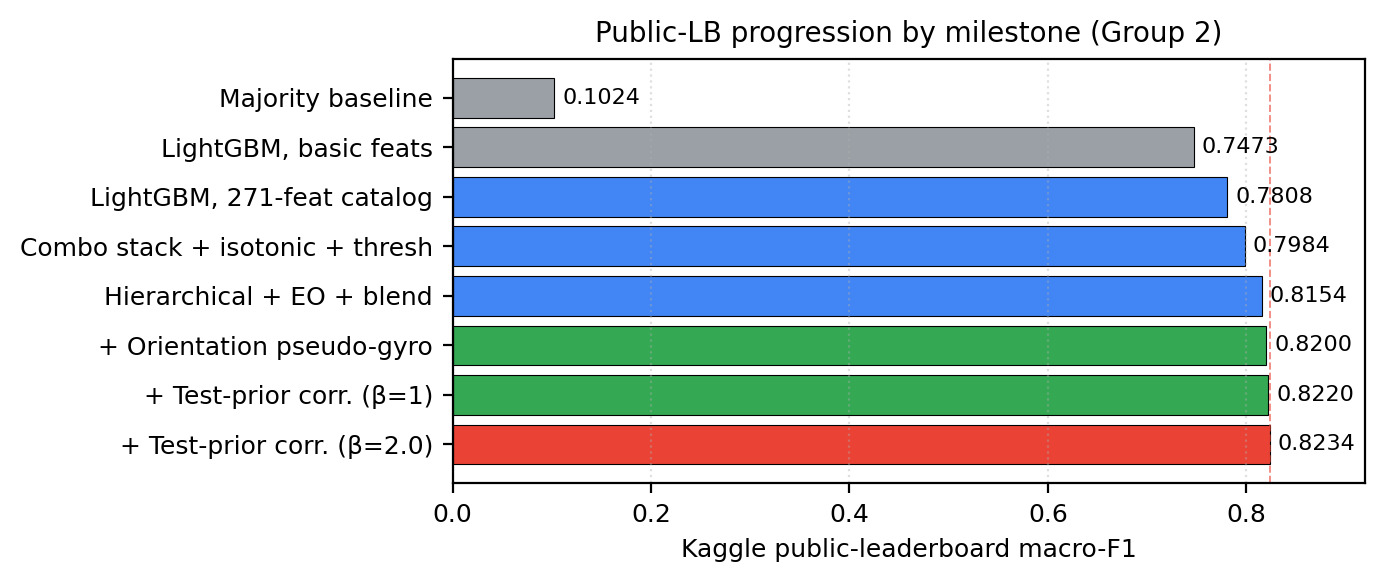
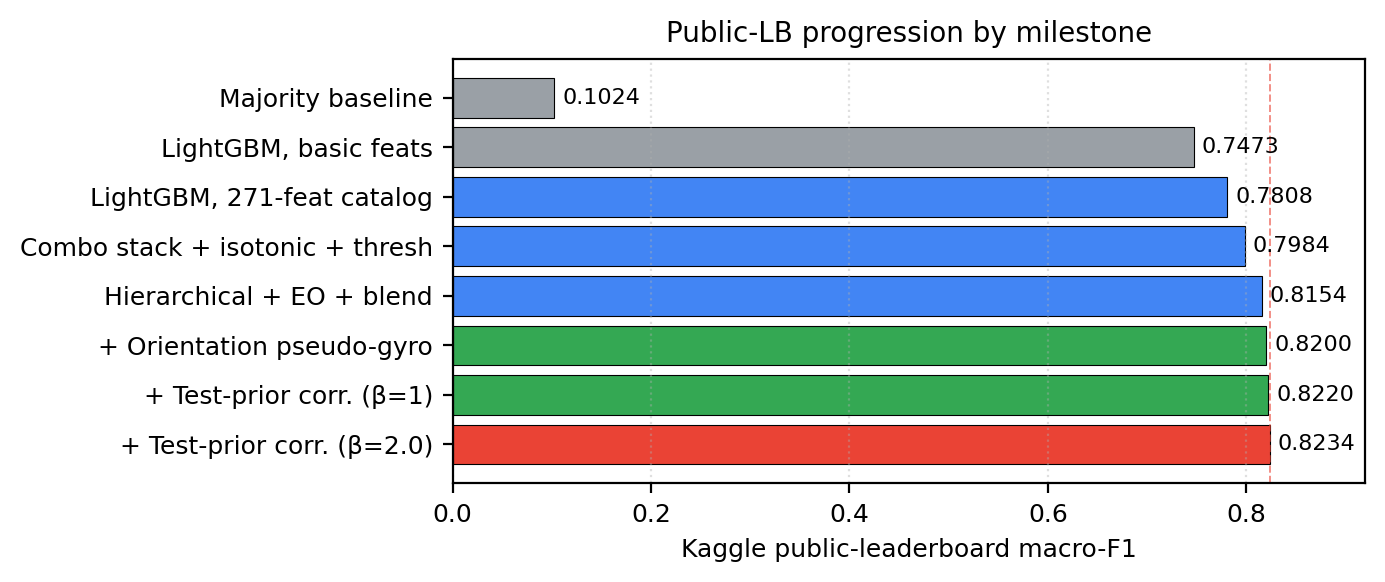
report: finalize single author (314540066), remove all Group 2 mentions
- Author block is now a single author "吳忠賢 Michael Kurniawan Soegeng / Student ID
  314540066" (was "Member 1/2/3" placeholders); no group.
- Remove all remaining "Group 2" mentions: abstract, the table + figure captions,
  the conclusion, the kaggle_progression figure title image, and TASK_STATE.md.
- Build now uses XeLaTeX so xeCJK can render the CJK name. To respect the
  no-format-change rule, the IEEE Times/Courier body fonts are restored explicitly via
  TeX Gyre Termes/Cursor (fontspec otherwise silently defaults to Latin Modern).
  Verified with pdffonts: body = TeXGyreTermes, zero Latin Modern.
- README: rebuild command updated to `latexmk -xelatex`. gitignore report/*.xdv.

Clean XeLaTeX build: 6 pages, 0 undefined refs, 0 overfull hboxes.

Changed region(s): [[0.4347, 0.0309, 0.9004, 0.0928]]

diff --git a/report/report.tex b/report/report.tex
@@ -1,3 +1,4 @@
+% !TEX program = xelatex
 \documentclass[conference]{IEEEtran}
 \IEEEoverridecommandlockouts
 \usepackage{cite}
@@ -8,7 +9,12 @@
 \usepackage{xcolor}
 \usepackage{url}
 \usepackage{hyperref}
-
+\usepackage{xeCJK}
+% Restore the template's intended Latin fonts (XeLaTeX/fontspec otherwise defaults to
+% Latin Modern): Times -> TeX Gyre Termes, Courier -> TeX Gyre Cursor. Keeps IEEE look.
+\setmainfont{TeX Gyre Termes}
+\setmonofont{TeX Gyre Cursor}
+\setCJKmainfont{Noto Sans TC} 
 
 \def\BibTeX{{\rm B\kern-.05em{\sc i\kern-.025em b}\kern-.08em
     T\kern-.1667em\lower.7ex\hbox{E}\kern-.125emX}}
@@ -24,18 +30,14 @@
 {\footnotesize Data Mining Final Project, 2026 Spring}
 }
 
-\author{\IEEEauthorblockN{Member 1}
-\and
-\IEEEauthorblockN{Member 2}
-\and
-\IEEEauthorblockN{Member 3}
-}
+\author{\IEEEauthorblockN{吳忠賢 Michael Kurniawan Soegeng}
+\IEEEauthorblockA{Student ID 314540066}}
 
 \maketitle
 
 
 \begin{abstract}
-We (\textbf{Group~2}) tackle the NYCU Data Mining 2026 Assignment~3 Kaggle competition: six-class human
+We tackle the NYCU Data Mining 2026 Assignment~3 Kaggle competition: six-class human
 activity recognition (HAR) from \emph{1\,Hz aggregated} tri-axial wrist accelerometry, evaluated by
 macro-F1 under a \emph{cross-subject} (disjoint train/test users) split. Our final system is a calibrated
 gradient-boosted-tree (GBDT) stack blended with a hierarchical pipeline, augmented by two ideas tailored to
@@ -233,7 +235,7 @@ then shift the decision boundary to trade a little majority precision for a larg
 single change that converts a well-ranked model into a high macro-F1 one.
 
 \begin{table}[t]
-\caption{Kaggle public-LB progression by technique (Group 2). See Fig.~\ref{fig:prog}.}
+\caption{Kaggle public-LB progression by technique. See Fig.~\ref{fig:prog}.}
 \label{tab:prog}
 \centering
 \begin{tabular}{l c}
@@ -255,7 +257,7 @@ Hierarchical pipeline + feature selection + blend & 0.8154 \\
 \begin{figure*}[t]
 \centering
 \includegraphics[width=0.72\textwidth]{figures/kaggle_progression.png}
-\caption{Public-LB macro-F1 by milestone (Group 2). Feature engineering and calibration drive the rise to
+\caption{Public-LB macro-F1 by milestone. Feature engineering and calibration drive the rise to
 0.8154; the data-physics ideas (orientation pseudo-gyroscope, test-prior correction) add the final $+0.008$
 to reach 0.8234.}
 \label{fig:prog}
@@ -428,7 +430,7 @@ rather than a better classifier.
 
 \section{Conclusion}
 We presented a calibrated GBDT-stacking system for cross-subject human activity recognition on 1\,Hz wrist
-accelerometry that reaches public-leaderboard macro-F1 \textbf{0.8234} (Group~2). The decisive gains came not
+accelerometry that reaches public-leaderboard macro-F1 \textbf{0.8234}. The decisive gains came not
 from model capacity but from (i) a broad temporal feature catalog with calibrated, threshold-tuned decoding,
 and (ii) two data-physics ideas---an orientation \emph{pseudo-gyroscope} that recovers rotational signal from
 gravity-laden mean readings, and a label-free \emph{test-prior correction} that adapts to the shifted test

diff --git a/scripts/make_report_figures.py b/scripts/make_report_figures.py
@@ -38,7 +38,7 @@ for b, v in zip(bars, vals):
     ax.text(v + 0.008, b.get_y() + b.get_height() / 2, f"{v:.4f}", va="center", fontsize=8)
 ax.set_xlim(0, 0.92)
 ax.set_xlabel("Kaggle public-leaderboard macro-F1")
-ax.set_title("Public-LB progression by milestone (Group 2)", fontsize=10)
+ax.set_title("Public-LB progression by milestone", fontsize=10)
 ax.axvline(0.8234, color="#ea4335", ls="--", lw=0.7, alpha=0.6)
 ax.grid(axis="x", ls=":", alpha=0.4)
 plt.tight_layout()

diff --git a/TASK_STATE.md b/TASK_STATE.md
@@ -1,10 +1,10 @@
-# TASK_STATE — IEEE Final Report (DM2026 Assignment 3, Group 2)
+# TASK_STATE — IEEE Final Report (DM2026 Assignment 3, single author 314540066)
 
 > Execution-state tracker for producing the final **IEEE-format `.tex` report**. Read this FIRST every session.
 > (Separate from `DEV_PROGRESS.md`, which is the project development log deliverable.)
 
 ## Overall status
-**ALL PHASES DONE; agent-verified clean (zero discrepancies). ~100%** — only open item is author names.
+**ALL PHASES DONE; agent-verified clean. Author block finalized (single author, Student ID 314540066); all "Group 2" mentions removed from report, figures, and repo. Report builds with XeLaTeX (Times preserved). 100%.**
 Deliverable `report/report.tex` compiles to **6 pages**, IEEE conference template, all 4 graded questions
 answered, reproducible. PDF at `report/report.pdf`.
 
@@ -31,14 +31,14 @@ answered, reproducible. PDF at `report/report.pdf`.
 - None. Report complete and pushed.
 
 ## Next
-- **Only remaining item:** fill real author names in `report/report.tex` `\author{}` block (currently
-  "Member 1/2/3"); Group ID 2 is already stated in the abstract.
+- None. Author block = single author "吳忠賢 Michael Kurniawan Soegeng / Student ID 314540066";
+  no group, no member placeholders. All "Group 2" mentions removed from report + figures + repo.
 
 ## Key data & decisions
-- **Group ID: 2** · GitHub: https://github.com/Ashurali/DM2026-Assignment-3-MKS · Kaggle team 314540066.
+- **Single author — Student ID 314540066** (no group). GitHub: https://github.com/Ashurali/DM2026-Assignment-3-MKS · Kaggle display name 314540066.
 - **Best public LB: 0.8234** (`sub_pc_b20.csv`). Reproduce: `python scripts/reproduce_final.py`.
 - **Format (HARD RULE — do not modify):** IEEE conference (`\documentclass[conference]{IEEEtran}`); no font/spacing
-  changes. Sections: Abstract (must state Group ID 2 + GitHub) / Project Summary ≤1 pg / Proposed Method 1–3 pp /
+  changes. Sections: Abstract (single author + GitHub) / Project Summary ≤1 pg / Proposed Method 1–3 pp /
   Experiments 2–4 pp. References via `reference.bib` (real sources only).
 - **The 4 graded questions (10% each), to answer in Experiments:** (Q1) preliminary analysis + naive baselines;
   (Q2) preprocessing techniques + per-technique gain; (Q3) label↔sequence temporal alignment; (Q4) ablation.
@@ -76,6 +76,5 @@ Negatives kept concise: GRU/evidential 0.71–0.72, `blend_dlx30` 0.7734, `v6_ea
 - **Test-prior shift (Saerens, label-free):** test L2≈0.041 (train 0.033), L3≈0.073 (train 0.060) → prior-correction β=2.0.
 
 ## Open questions for Michael
-1. **Author names** for the IEEE `\author{}` block (template has "Member 1/2/3"). Group ID is 2 — who are the members?
-   (Proceeding with placeholders + Group ID 2; please provide names before final submission.)
+1. ~~Author names~~ RESOLVED: single author "吳忠賢 Michael Kurniawan Soegeng / Student ID 314540066"; no group.
 2. Confirm `report/report.tex` is the intended location (kept inside the repo so it compiles standalone with the copied `IEEEtran.cls`).

diff --git a/README.md b/README.md
@@ -30,7 +30,7 @@ pip install -r requirements.txt
 python scripts/reproduce_final.py        # -> submissions/sub_pc_b20.csv  (== public LB 0.8234)
 ```
 
-Rebuild the report PDF from source with `latexmk -pdf report/report.tex`. The repo is laid out so
+Rebuild the report PDF from source with `latexmk -xelatex report/report.tex` (XeLaTeX is required: the author name uses CJK glyphs via `xeCJK`; IEEE's Times body font is preserved explicitly). The repo is laid out so
 the winning path is unambiguous: **[`scripts/`](scripts/)** contains *only* the winning-path
 training and this one-command reproduction; every exploratory / negative-result script is
 separated under **[`exploration/`](exploration/)** (see its README).